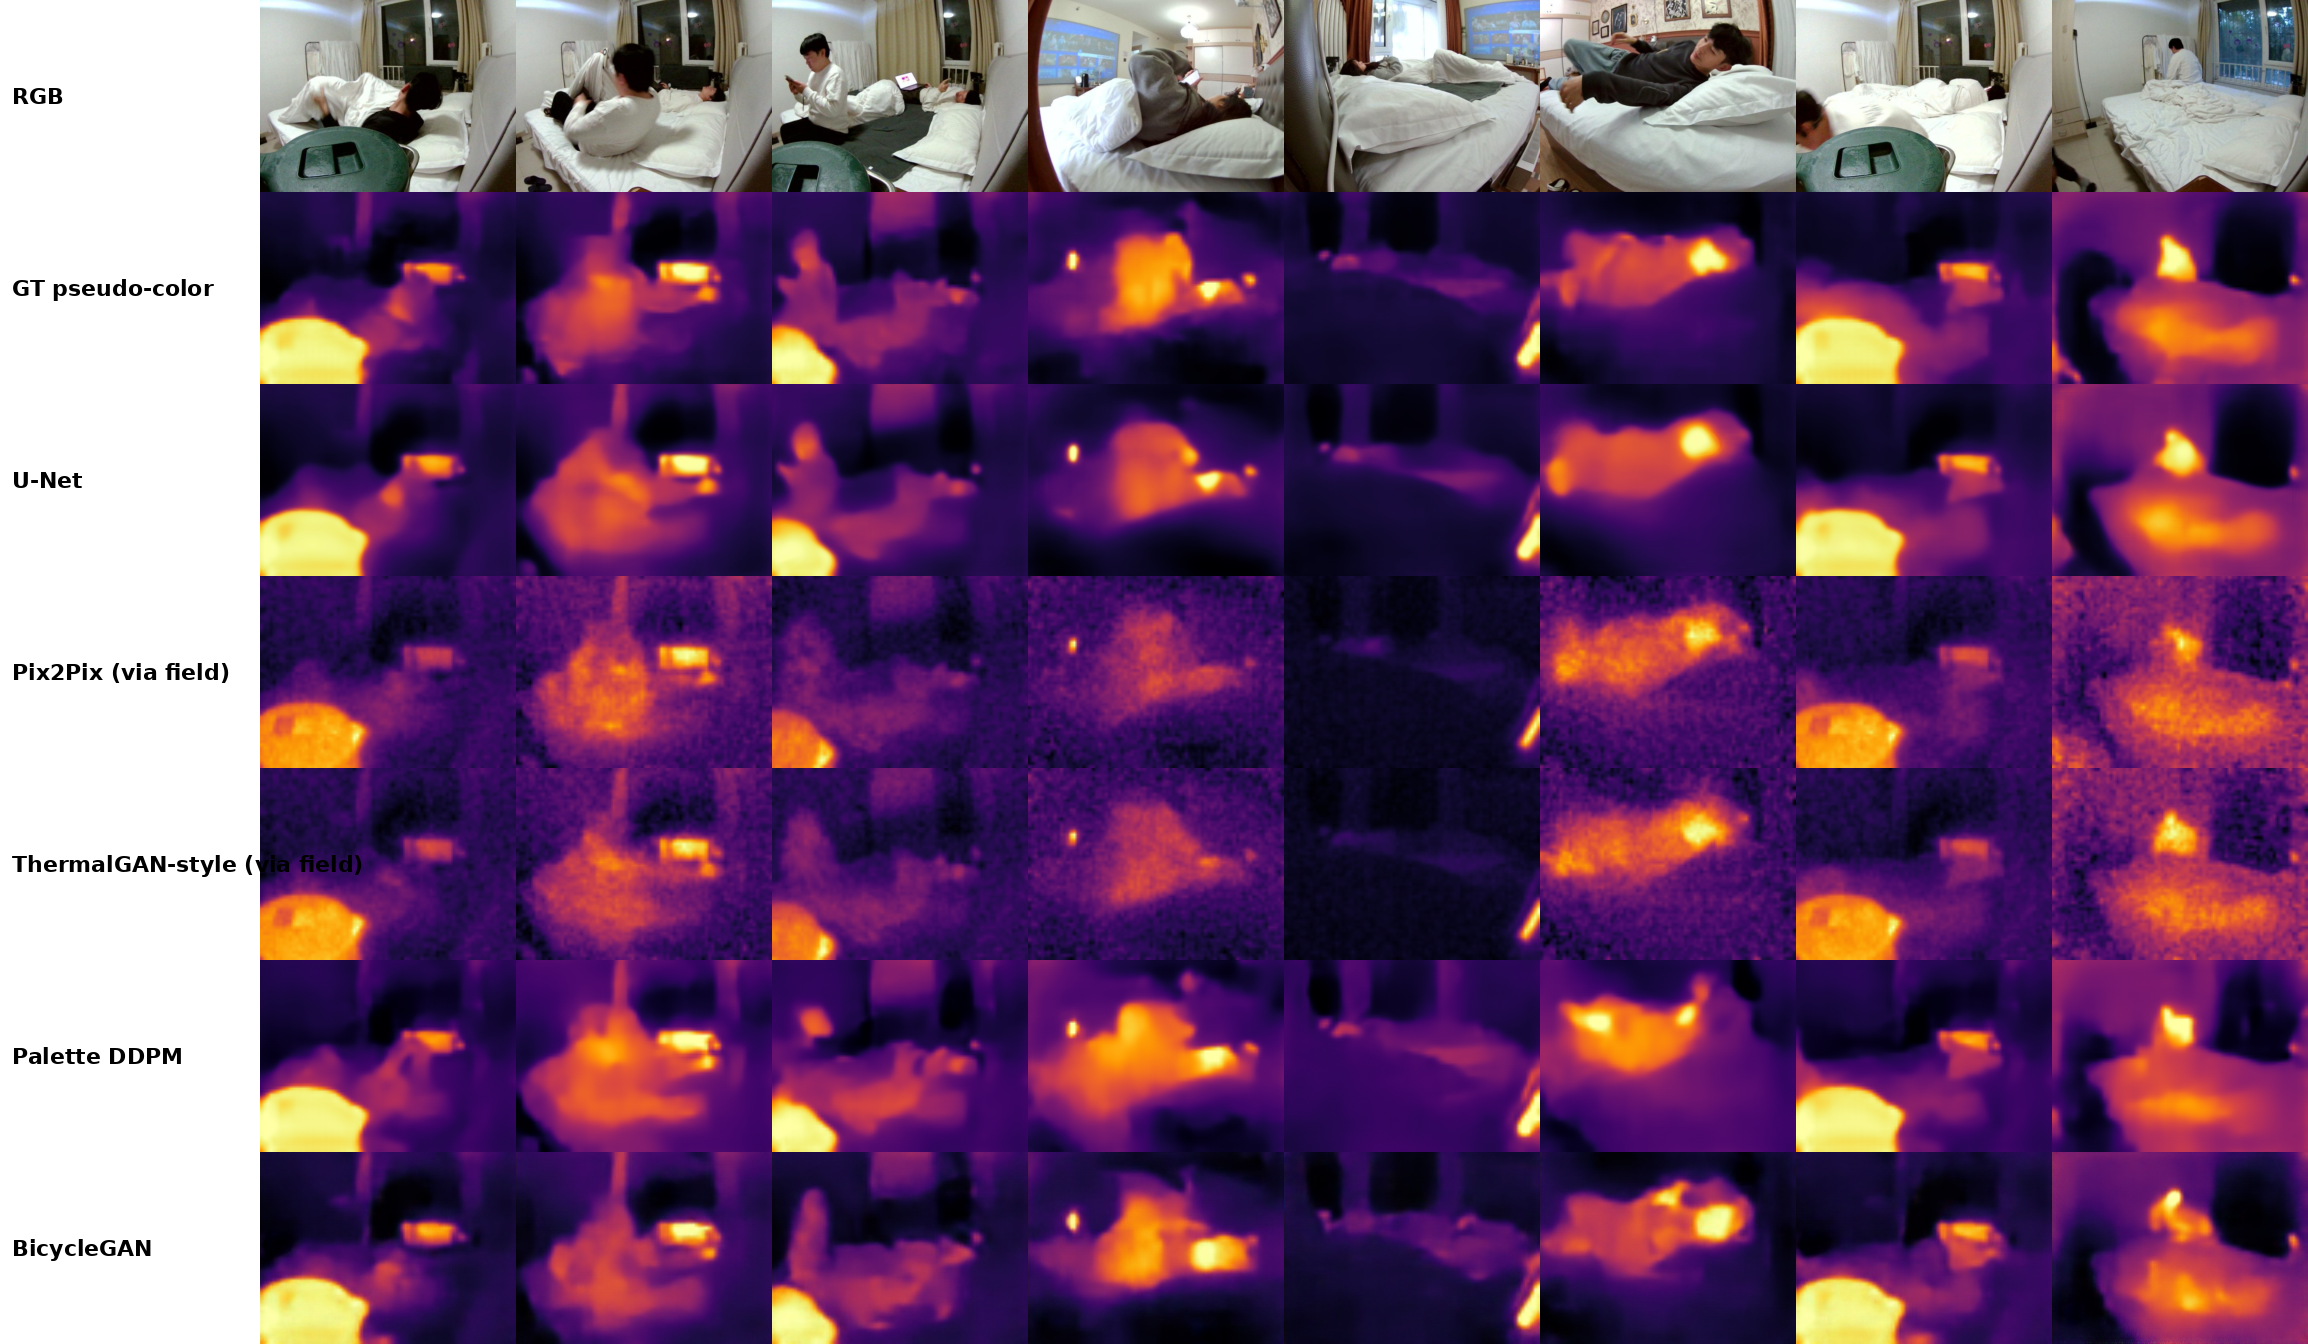
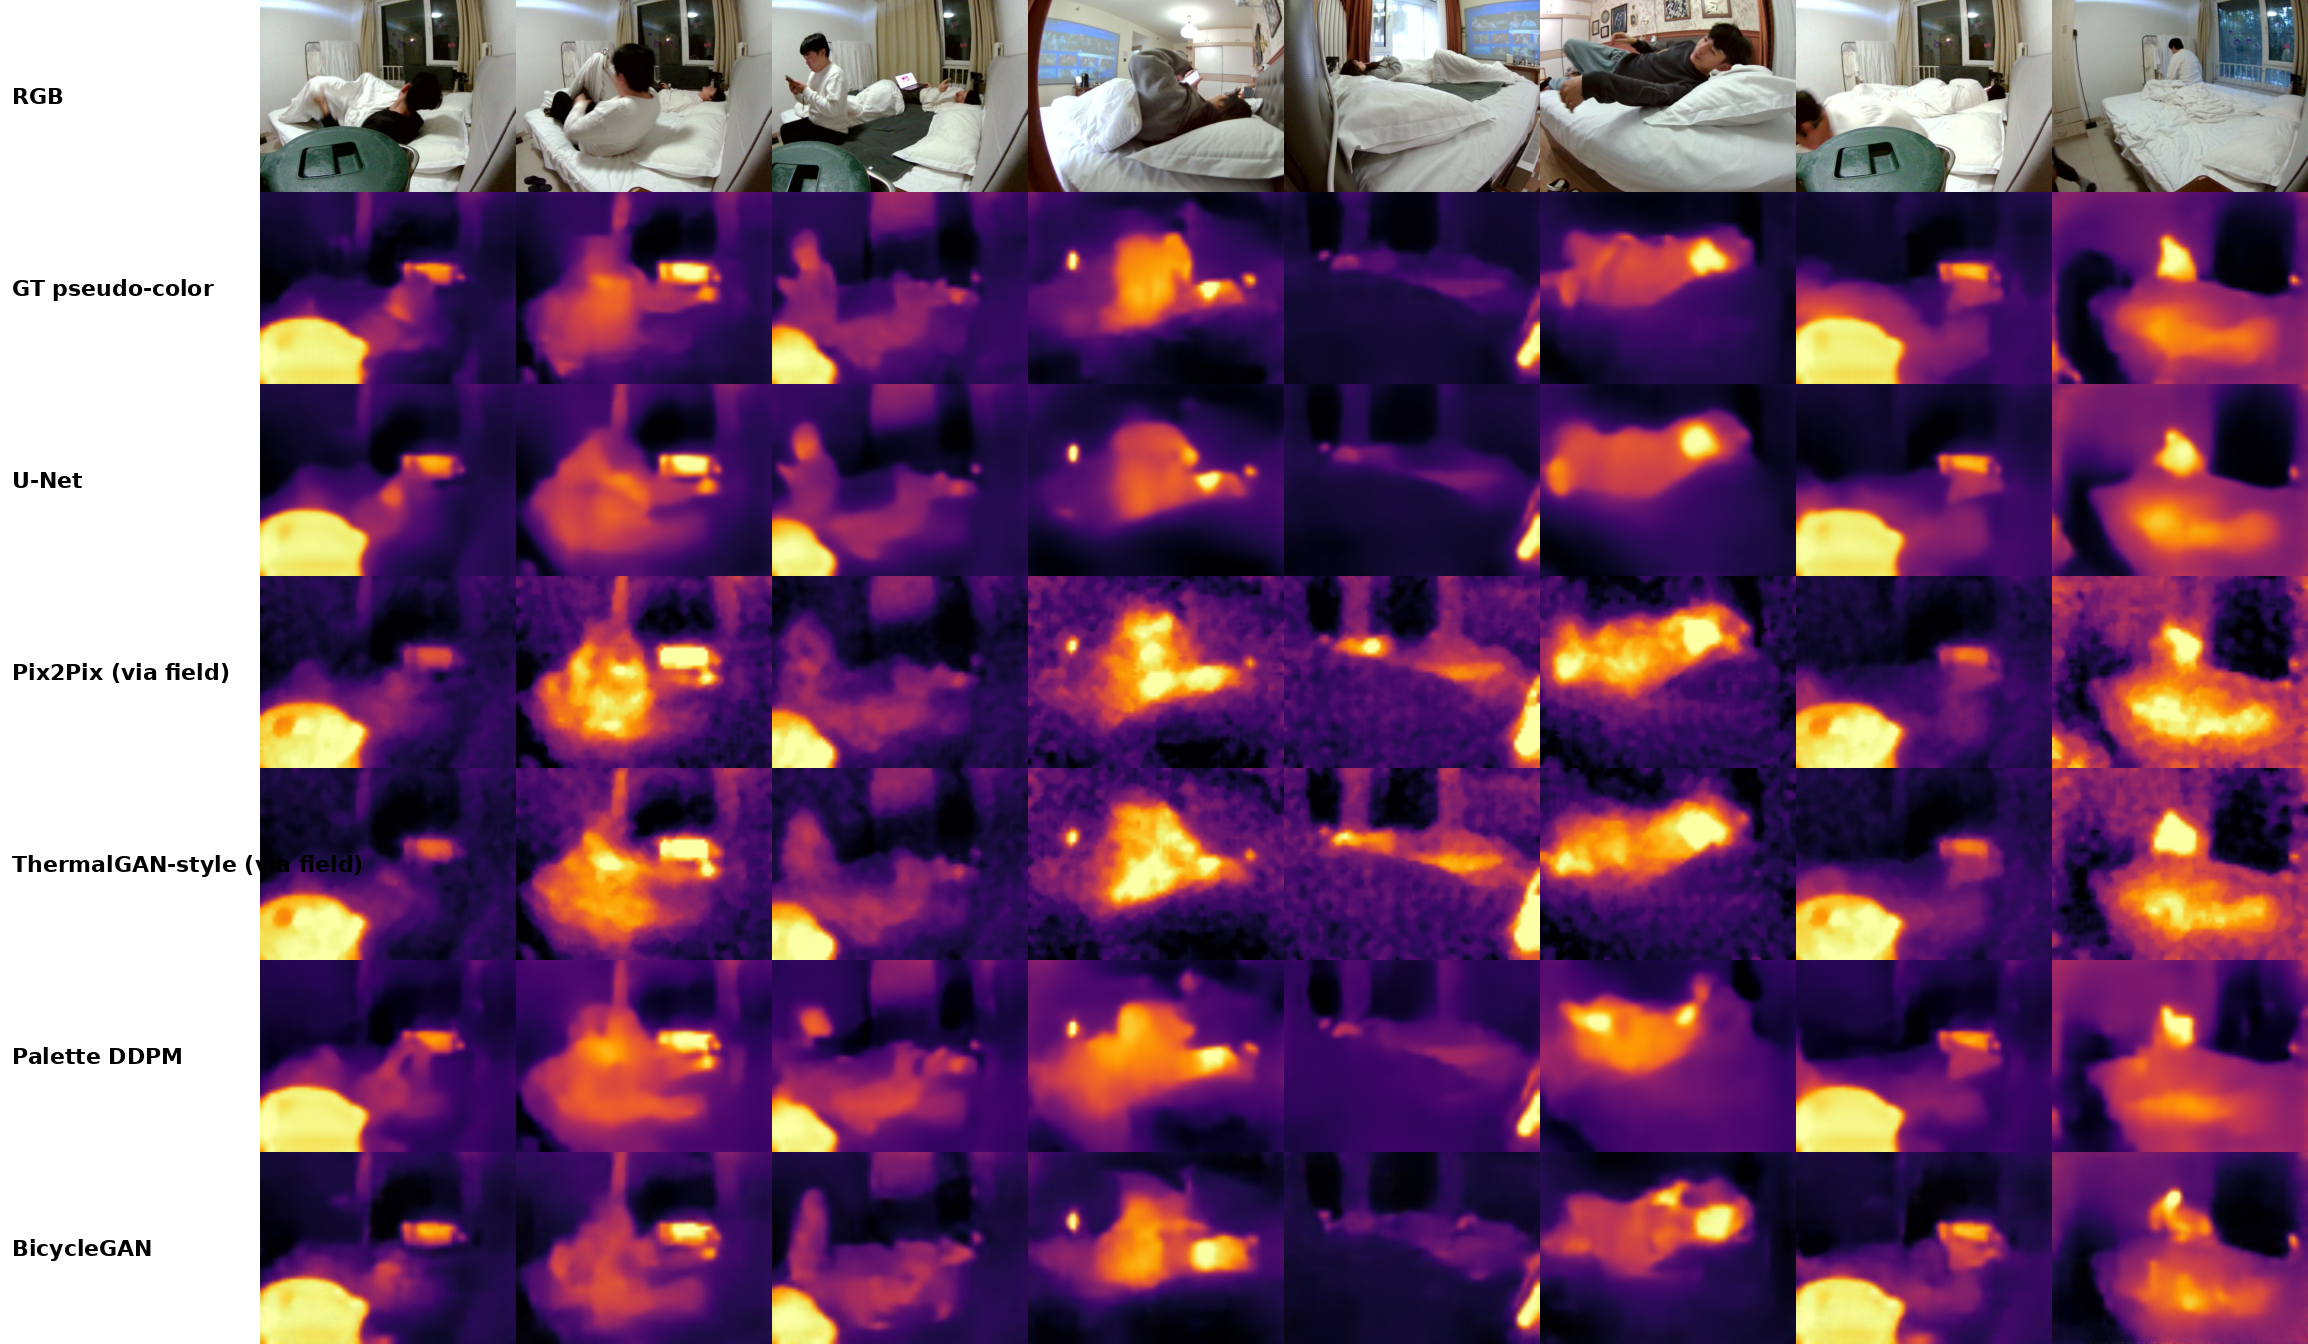
RGB2T: add thermal-field comparison grid, denoise pseudo-color grid

Changed region(s): [[0.0936, 0.4062, 1.0, 0.7188]]

diff --git a/RGB2T/README.md b/RGB2T/README.md
@@ -161,6 +161,13 @@ rows are each method's pseudo-color output (8 test frames).
 
 ![Pseudo-color comparison](samples/comparison_pseudo.png)
 
+## Thermal-field comparison
+
+Row 1 is the RGB input, row 2 is the GT temperature field, and the following
+rows are each method's predicted temperature field (Inferno, 15-40 degC).
+
+![Thermal-field comparison](samples/comparison_thermal.png)
+
 ## Example outputs
 
 Each grid shows the visible RGB input, the predicted output, and the real thermal target.
